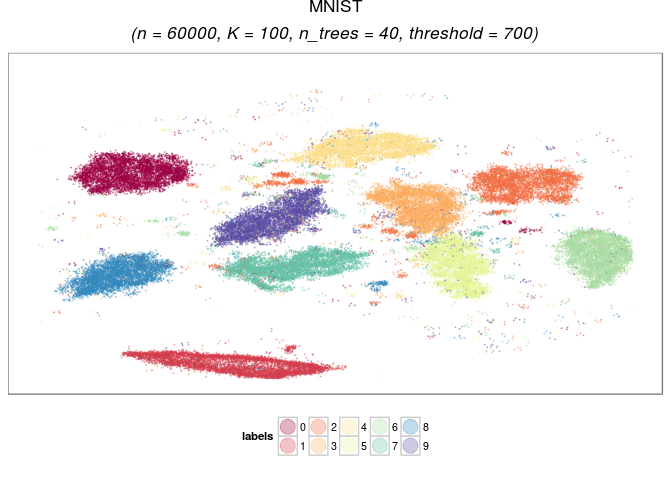
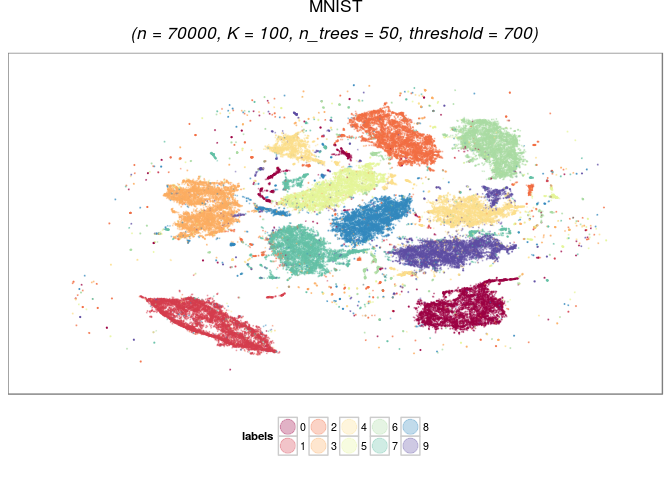
Reduced gradients

diff --git a/src/test-largevis.cpp b/src/test-largevis.cpp
@@ -25,7 +25,7 @@ void positiveTrigGradient(double* i, double* j,
                           const double alpha, const double f,
                           const int D) {
   const double dist_ij = sqrt(distAndVector(j, i, holder, D));
-  const double grad = (-2) * ((alpha == 0) ?
+  const double grad = (-1) * ((alpha == 0) ?
                                 exp(dist_ij * dist_ij) * dist_ij / (exp(dist_ij * dist_ij) + 1) :
                                 alpha * dist_ij / ((alpha * dist_ij * dist_ij) + 1));
   const double angle = atan2(holder[1],  holder[0]);
@@ -40,12 +40,11 @@ bool negativeTrigGradient(double* i,
                           const int D) {
   const double dist_ik = sqrt(distAndVector(k, i, holder, D));
   if (dist_ik == 0) return true; // If the two points are in the same place, skip
-  double grad = gamma * 2 * ((alpha == 0) ?
+  double grad = gamma * ((alpha == 0) ?
                                      dist_ik / (exp(dist_ik * dist_ik) + 1) :
                                      1 / ( alpha * dist_ik * dist_ik * dist_ik + dist_ik));
   const double angle = atan2(holder[1], holder[0]);
   if (grad > 1) grad = 1;
-  if (grad < -1) grad = -1;
   holder[1] = - sin(angle) * grad;
   holder[0] = - cos(angle) * grad;
   return false;

diff --git a/src/gradients.cpp b/src/gradients.cpp
@@ -23,7 +23,7 @@ bool negativeGradient(double* i,
   const double adk = alpha * dist_ik * dist_ik;
   if (dist_ik == 0) return true; // If the two points are in the same place, skip
   // df/dd has a dist_ij factor in the numerator that cancels with dd/dx
-  const double grad = gamma * 2 * ((alpha == 0) ?
+  const double grad = gamma * ((alpha == 0) ?
            1 / (1 + exp(dist_ik * dist_ik)) :
            alpha / (adk * (adk + 1)));
   multModify(holder, D, (grad > 1) ? 1 : grad);
@@ -37,9 +37,9 @@ void positiveGradient(double* i, double* j,
   double dist_ij = sqrt(distAndVector(i, j, holder, D));
   const double powdist = dist_ij * dist_ij;
   // df/dd has a dist_ij factor in the numerator that cancels with dd/dx
-  const double grad = (-2) * ((alpha == 0) ?
-                                ((dist_ij > 7) ? 1 : (exp(powdist) / (exp(powdist) + 1))) :
-                                alpha / (1 + alpha * powdist));
+  const double grad = ((alpha == 0) ?
+                                ((dist_ij > 7) ? -1 : -(exp(powdist) / (exp(powdist) + 1))) :
+                                -alpha / (1 + alpha * powdist));
   multModify(holder, D, grad);
 };
 

diff --git a/NEWS.md b/NEWS.md
@@ -1,42 +1,45 @@
 ### largeVis 0.1.6
 
-* Revisions for CRAN release
+* Revisions for CRAN release, including verifying correctness by reproducing paper examples, and timing tests/benchmarks
+  + Tested against the paper authors' wiki-doc and wiki-word datasets
+  + Tested with up to 2.5m rows, 100m edges (processed in 12 hours). 
 * Neighbor search:
   + Dense search is much, much faster and more efficient
   + Tree search for cosine distances uses normalized vectors
 * projectKNNs 
+  + Should be 10x faster for small datasets
   + Replaced binary search ( O(n log n) ) with the alias algorithm for weighted sampling ( O(1) )
   + Clips gradients, causes alpha == 0 to work properly now
-  + Corrected and added tests for gradients
+  + Halving gradients, since they're being applied to both vertices at once
 * Vignettes:
   + Reuse initialization matrices and neighbors, to make it easier to see the effect of hyperparameters
   + Benchmarks now a separate vignette, more detailed
+  + Examples removed from vignettes and moved to readme
   + Added examples of manifold map with color faces using OpenFace vectors
 * Sigmas
   + Fixed longstanding bug
   + Changed optimization method; pre-scan
-  + Sigma estimation could, in some cases involving very large datasets, could become unstable and settle into 
+  + Sigma estimation could, in some cases involving very large datasets, become unstable and settle into 
   an edge of the interval. This should be resolved.  
 * Visualization
   + Color manifold maps work
   + Ported Karpathy's function for non-overlapping embeddings (experimental)
   + Removed transparency parameter
   + Added ggManifoldMap function for adding a manifold map to a ggplot2 plot
-* sgd
-  + 10x + faster for small datasets, and now (properly) scales by O(n) to larger data
 * vis
   + Whether to return neighbors and sigmas now adjustable parameters, for memory reasons
   + Runs gc() periodically
+* Data
+  + Removed most data and extdata that had been included before; this is to reduce size for CRAN submission
 * Dependencies & Build
   + Many misc changes to simplify dependencies for CRAN
   + Re-added ARMA_64BIT_WORD; otherwise, could exceed the limitation on size of an arma sparse matrix with moderately sized datasets (~ 1 M rows, K = 100)
   + Now depends on R >= 3.0.2, so RcppProgress and RcppArmadillo could be moved from the Depends section of the DESCRIPTION file
   + Will now compile on systems that lack OpenMP (e.g., OS X systems with old versions of xcode). 
 * Correctness and Testing
-  + Tested against the paper authors' wiki-doc and wiki-word datasets
-  + Tested with up to 2.5mm rows. 
   + Tests are separated by subject
   + Additional, more extensive tests with greater code coverage
+  + Gradients now being tested
   + Added C++ unit tests
   + Added travis testing against OSX
 

diff --git a/README.md b/README.md
@@ -1,7 +1,7 @@
 largeVis
 ================
 
-[![Travis-CI Build Status](https://travis-ci.org/elbamos/largeVis.svg?branch=0.1.6)](https://travis-ci.org/elbamos/largeVis) [![Coverage Status](https://img.shields.io/codecov/c/github/elbamos/largeVis/0.1.6.svg)](https://codecov.io/github/elbamos/largeVis?branch=%22) [![https://gitter.im/elbamos/largeVis](https://badges.gitter.im/elbamos/largeVis.svg)](https://gitter.im/elbamos/largeVis?utm_source=badge&utm_medium=badge&utm_campaign=pr-badge&utm_content=badge) [![AppVeyor Build Status](https://ci.appveyor.com/api/projects/status/github/elbamos/largeVis?branch=0.1.6&svg=true)](https://ci.appveyor.com/project/elbamos/largeVis)
+[![Travis-CI Build Status](https://travis-ci.org/elbamos/largeVis.svg?branch=0.1.6)](https://travis-ci.org/elbamos/largeVis) [![Coverage Status](https://img.shields.io/codecov/c/github/elbamos/largeVis/0.1.6.svg)](https://codecov.io/gh/elbamos/largeVis/branch/0.1.6) [![https://gitter.im/elbamos/largeVis](https://badges.gitter.im/elbamos/largeVis.svg)](https://gitter.im/elbamos/largeVis?utm_source=badge&utm_medium=badge&utm_campaign=pr-badge&utm_content=badge) [![AppVeyor Build Status](https://ci.appveyor.com/api/projects/status/github/elbamos/largeVis?branch=0.1.6&svg=true)](https://ci.appveyor.com/project/elbamos/largeVis?branch=0.1.6)
 
 This is an implementation of the `largeVis` algorithm described in (<https://arxiv.org/abs/1602.00370>). It also incorporates a very fast algorithm for estimating k-nearest neighbors, implemented in C++ with `Rcpp` and `OpenMP`, and for visualizing a map of the manifold like [this](http://cs.stanford.edu/people/karpathy/cnnembed/).
 
@@ -28,15 +28,15 @@ Examples
 
 ![](README_files/figure-markdown_github/drawmnist-1.png)
 
-### 20 Newsgroups
-
-![](README_files/figure-markdown_github/draw20ng-1.png)
-
 ### Wikipedia Terms and Documents
 
 ![](README_files/figure-markdown_github/drawwikiwords-1.png)
 
 ![](README_files/figure-markdown_github/drawwikidocs-1.png)
+
+### 20 Newsgroups
+
+![](README_files/figure-markdown_github/draw20ng-1.png)
 
 ### Openface
 
@@ -221,7 +221,7 @@ Support for Sparse Matrices
 Visualizing Graphs
 ------------------
 
-The `largeVis` visualization algorithm can be used to visualize ordinary graphs. The included `wiki` dataset is an example.
+The `largeVis` visualization algorithm can be used to visualize undirected weighted or unweighted acyclic graphs. The included `wiki` dataset is an example.
 
 The following code illustrates how to import and visualize a graph using the YouTube-communities dataset available [here](https://snap.stanford.edu/data/com-Youtube.html). The data and visualization are not included here for size reasons.
 
